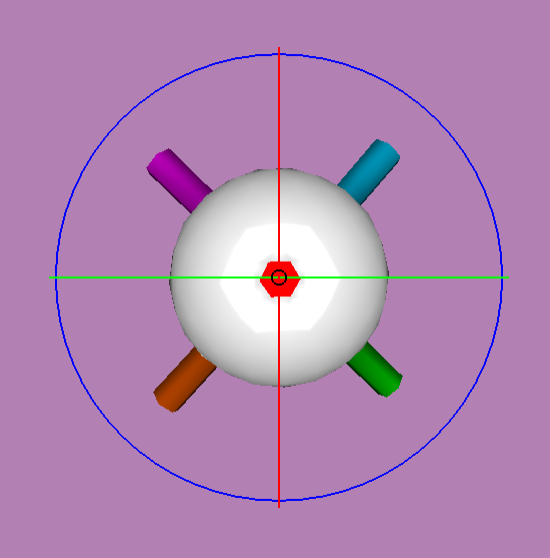
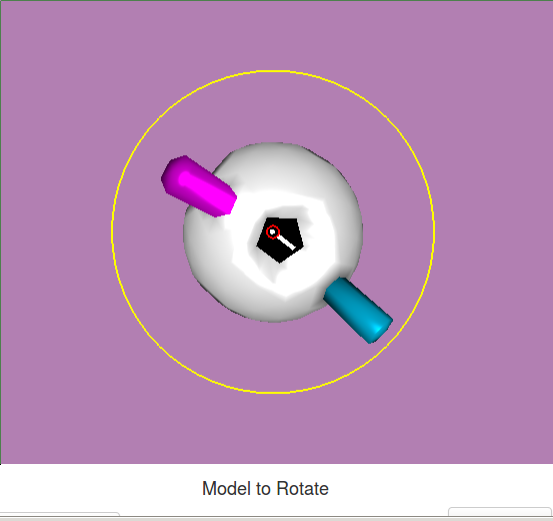
Updated documentation for inspection tasks

diff --git a/src/user_feedback.js b/src/user_feedback.js
@@ -6,7 +6,7 @@ define(["jquery"], function($){
         if(task.type == "orientation"){
             explanation = "Orientation Task: Rotate the object on the right to match the object on the left";
         } else if(task.type == "inspection"){
-            explanation = "Inspection Task: Rotate the object until the black circle is on the red patch";
+            explanation = "Inspection Task: Rotate the object until you find the face containing only 'i'. Then, position the red circle is over the dot of the 'i'.";
         }
         $("#header-explanation").html(explanation);
     };

diff --git a/documentation/tasks.md b/documentation/tasks.md
@@ -32,8 +32,12 @@ Orientation matching tasks involve you rotating a model to match the orientation
 - __Reference Orientation__: This is the orientation that you want to manipulate your model to match.
 - __Model to Rotate__: This is the model you will be rotating to match the _Reference Orientation's_ model.
 
+Once the _Model to Rotate_ is aligned the same as the _Reference Orientation_ model, you should submit the task.
+
 ## Inspection
 
 ![Inspection Tasks](images/inspection_task.png)
 
-Inspection matching tasks involve you trying to find a red patch on the model you're rotating. Here, there is only one screen: __Model to Rotate__. You must rotate this model until you find the red patch as shown in the image above. Once you have, you should position the center of the controller on that red patch as shown above. The center of the controller is marked with a small black square. 
+Inspection matching tasks involve you trying to find a particular symbol - the letter "i" - on the model you're rotating. Here, there is only one screen: __Model to Rotate__.
+
+You must rotate this model until you find the "i". Once you have, you should position the center of the controller, marked with a small red circle, on the dot of the "i" as shown above. After encircling the dot of the "i", you should submit the task.
